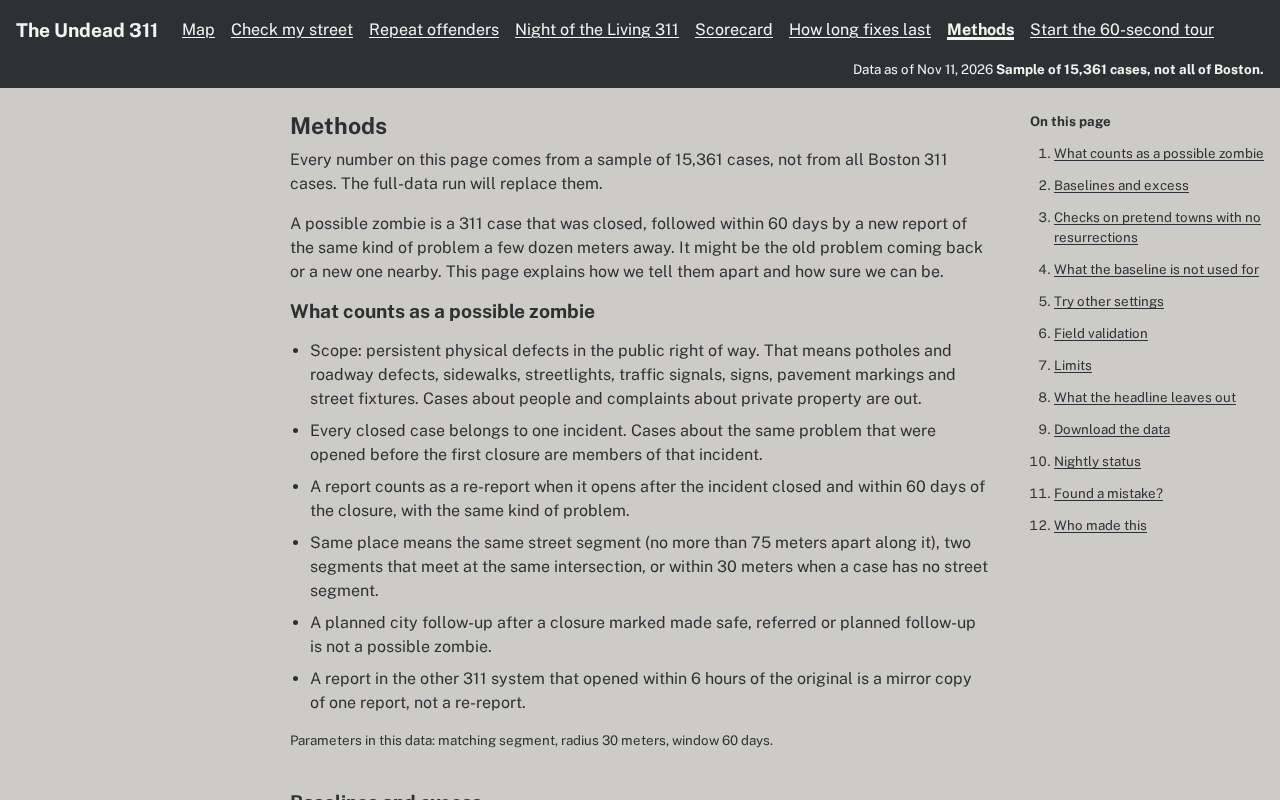
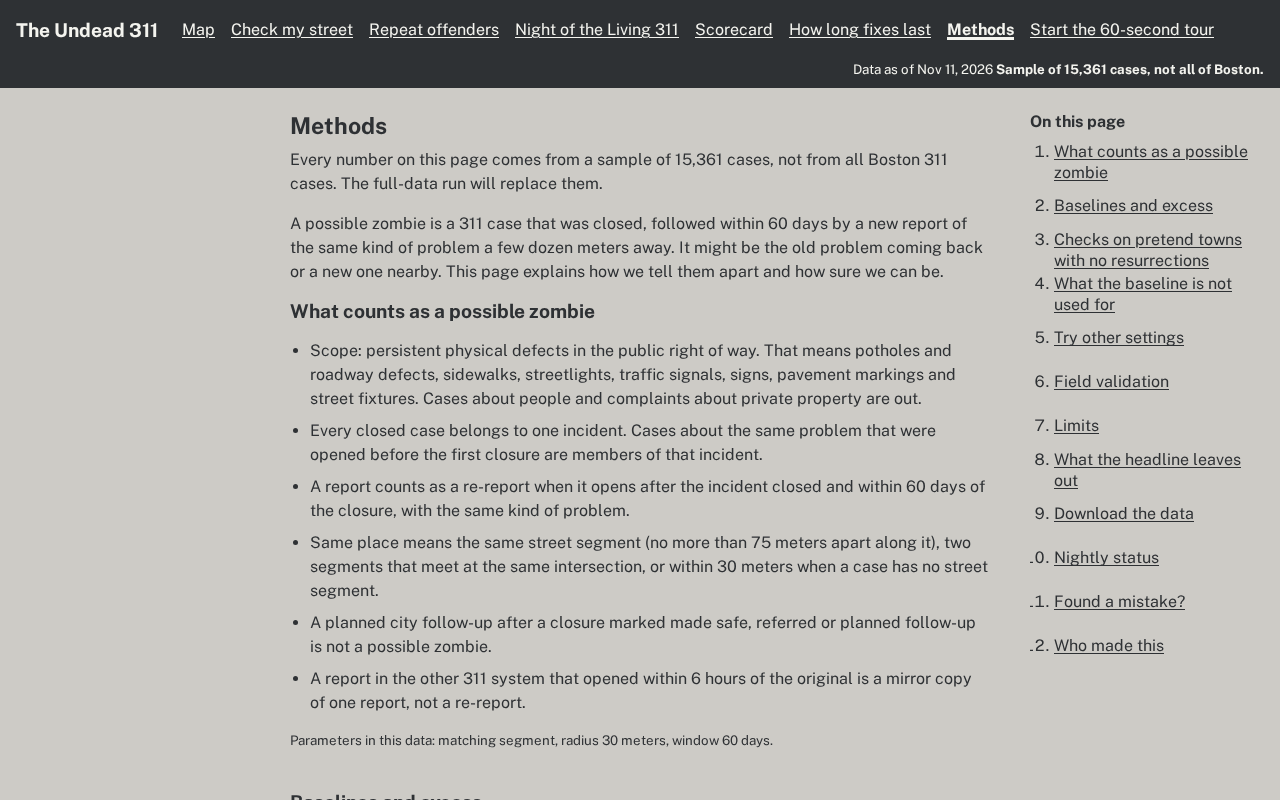
fix(web): address reviewer-ux round 2 on ui/polish
- Clusters whose centres are under 44 px apart merge, so no count badge covers another.
- The open marker key stays above the map credit and left of the zoom buttons.
- The phone filter sheet starts at the bottom of the count strip: no band over the hidden tabs.
- Methods contents links are 44 px tall; time-lapse column centred, help text at body size.
- e2e: key clear of credit and zoom, sheet position, 44 px contents links, no badge overlap.

Kiro-Agent: web
Kiro-Run: manual

Changed region(s): [[0.8125, 0.125, 1.0, 0.7188], [0.8125, 0.75, 0.9375, 0.8125]]

diff --git a/web/src/map/density.ts b/web/src/map/density.ts
@@ -12,6 +12,11 @@ import type { PointRow } from "../lib/points";
 export const DENSITY_ZOOM = 13;
 /** Cluster cell size in screen pixels. A cell holding one possible zombie draws that marker, not a cluster. */
 export const CELL_PX = 40;
+/**
+ * Clusters whose centres end up closer than this on screen are merged, so no count badge covers another (reviewer-ux round 2): a
+ * three-digit badge is about 30 px wide, and the spray behind it about 60 px at most.
+ */
+export const MIN_CLUSTER_GAP_PX = 44;
 
 export interface Cluster {
   /** Stable id: the grid cell, for example "3:5@11". */
@@ -51,6 +56,15 @@ const worldY = (lat: number, z: number) => {
   return ((1 - Math.log(Math.tan(r) + 1 / Math.cos(r)) / Math.PI) / 2) * 512 * 2 ** z;
 };
 
+/** Screen-pixel centre of some rows at zoom z (the mean of their world positions, summed in id order so it is order-free). */
+function centre(rows: readonly PointRow[], z: number): { x: number; y: number } {
+  const sorted = [...rows].sort((a, b) => (a.id < b.id ? -1 : a.id > b.id ? 1 : 0));
+  return {
+    x: sorted.reduce((s, r) => s + worldX(r.lon, z), 0) / sorted.length,
+    y: sorted.reduce((s, r) => s + worldY(r.lat, z), 0) / sorted.length,
+  };
+}
+
 /**
  * Split rows into clusters and single markers for a zoom. At or above DENSITY_ZOOM there are no clusters. A row whose id is in `keep`
  * (the selected marker) is always a single, so an open card never hides inside a cluster.
@@ -67,22 +81,38 @@ export function groupRows(rows: readonly PointRow[], zoom: number, keep: Readonl
     if (cell) cell.push(r);
     else cells.set(key, [r]);
   }
-  const clusters: Cluster[] = [];
-  const single = new Set<string>();
+  // cells in key order; each cell with two or more members starts as a cluster
+  type Draft = { members: PointRow[]; x: number; y: number; key: string };
+  let drafts: Draft[] = [];
   for (const [key, members] of [...cells.entries()].sort((a, b) => (a[0] < b[0] ? -1 : a[0] > b[0] ? 1 : 0))) {
-    if (members.length === 1) {
-      single.add(members[0].id);
-      continue;
+    if (members.length < 2) continue;
+    drafts.push({ members, key, ...centre(members, z) });
+  }
+  // merge clusters whose centres are too close for their badges, closest pair first, until none are; ties by key keep it order-free
+  for (;;) {
+    let best: [number, number, number] | null = null;
+    for (let a = 0; a < drafts.length; a++) {
+      for (let b = a + 1; b < drafts.length; b++) {
+        const d = Math.hypot(drafts[a].x - drafts[b].x, drafts[a].y - drafts[b].y);
+        if (d < MIN_CLUSTER_GAP_PX && (!best || d < best[2])) best = [a, b, d];
+      }
     }
-    const sorted = [...members].sort((a, b) => (a.id < b.id ? -1 : a.id > b.id ? 1 : 0)); // so the centre does not depend on input order
-    clusters.push({
-      key: `${key}@${z}`,
+    if (!best) break;
+    const [a, b] = best;
+    const members = [...drafts[a].members, ...drafts[b].members];
+    const merged: Draft = { members, key: drafts[a].key < drafts[b].key ? drafts[a].key : drafts[b].key, ...centre(members, z) };
+    drafts = [...drafts.filter((_, i) => i !== a && i !== b), merged].sort((p, q) => (p.key < q.key ? -1 : p.key > q.key ? 1 : 0));
+  }
+  const clusters: Cluster[] = drafts.map((d) => {
+    const sorted = [...d.members].sort((a, b) => (a.id < b.id ? -1 : a.id > b.id ? 1 : 0)); // so the centre does not depend on input order
+    return {
+      key: `${d.key}@${z}`,
       lon: sorted.reduce((s, r) => s + r.lon, 0) / sorted.length,
       lat: sorted.reduce((s, r) => s + r.lat, 0) / sorted.length,
       count: sorted.length,
       ids: sorted.map((r) => r.id),
-    });
-  }
+    };
+  });
   const inCluster = new Set(clusters.flatMap((c) => c.ids));
   return { clusters, singles: rows.filter((r) => !inCluster.has(r.id)) };
 }

diff --git a/web/src/styles/app.css b/web/src/styles/app.css
@@ -194,10 +194,16 @@ button:disabled { opacity: 1; border-style: dashed; cursor: not-allowed; }
 .count-note { font-size: var(--step--1); }
 
 /* Marker key over the map's lower left corner (REQ-WEB-MAP.1). Under the card (20) and the phone filter sheet (30). */
-.map-legend { position: absolute; left: var(--space-2); bottom: var(--space-2); z-index: 5; background: var(--crew-white); border: 2px solid var(--asphalt); max-width: calc(100% - 4 * var(--space-2)); }
+/* It sits above the bottom credit line (which must stay visible, tech.md) and left of the zoom buttons, and scrolls inside itself when tall. */
+.map-legend { position: absolute; left: var(--space-2); bottom: 2.25rem; z-index: 5; background: var(--crew-white); border: 2px solid var(--asphalt); max-width: min(24rem, calc(100% - 4.5rem)); }
 .map-legend summary { cursor: pointer; font-weight: 600; min-height: 2.75rem; padding: 0 var(--space-3); display: flex; align-items: center; gap: var(--space-2); }
 .map-legend summary::-webkit-details-marker { display: none; }
 .map-legend ul { list-style: none; margin: 0; padding: 0 var(--space-3) var(--space-2); max-height: min(50dvh, 20rem); overflow-y: auto; }
+/* On a phone the open key is capped below the zoom buttons: the stage less the top 7.5rem (controls) and the bottom 2.25rem (credit). */
+@media (max-width: 640px) {
+  .map-legend ul { max-height: max(4rem, calc(100cqh - 11rem)); }
+  .map-frame { container-type: size; }
+}
 .map-legend li { display: flex; align-items: center; gap: var(--space-2); font-size: var(--step--1); min-height: 1.5rem; }
 .legend-mark { flex: none; display: inline-flex; width: 1.5rem; height: 1.5rem; }
 .legend-mark svg { width: 100%; height: 100%; }
@@ -554,6 +560,8 @@ select {
 .timelapse-bar { display: grid; gap: var(--space-3); margin: var(--space-3) 0; }
 .timelapse-bar .timelapse-controls { margin: 0; }
 .timelapse-bar p { margin: 0; }
+.timelapse-bar #trail-note { font-size: var(--step-0); }
+.timelapse-page { margin-inline: auto; width: min(60rem, 100%); max-width: none; }
 .timelapse-scrub { display: grid; gap: var(--space-1); font-weight: 600; flex: 1 1 16rem; min-width: 0; }
 .timelapse-focus {
   display: grid;
@@ -580,7 +588,8 @@ select {
 .methods-main .plain-list, .methods-main .panel-error, .methods-main .calibration-warning { max-width: none; }
 .methods-main .shift-bar { max-width: 100%; }
 .toc ol { margin: 0; padding-left: var(--space-4); }
-.toc li { margin-bottom: var(--space-1); }
+.toc li { margin-bottom: 0; }
+.toc a { display: flex; align-items: center; min-height: 2.75rem; }
 .toc details { background: var(--crew-white); border: 2px solid var(--asphalt); }
 .toc summary { cursor: pointer; font-weight: 600; min-height: 2.75rem; display: flex; align-items: center; gap: var(--space-2); padding: 0 var(--space-3); }
 .toc summary::-webkit-details-marker { display: none; }
@@ -591,8 +600,8 @@ select {
 @media (min-width: 70rem) {
   .methods-layout { grid-template-columns: minmax(0, 1fr) minmax(0, var(--measure)) minmax(0, 1fr); column-gap: var(--space-5); align-items: start; }
   .methods-main { grid-column: 2; grid-row: 1; }
-  .toc { grid-column: 3; grid-row: 1; position: sticky; top: var(--space-3); max-height: calc(100dvh - 2 * var(--space-3)); overflow-y: auto; max-width: 18rem; font-size: var(--step--1); }
-  .toc a { display: block; padding: var(--space-1) 0; }
+  .toc { grid-column: 3; grid-row: 1; position: sticky; top: var(--space-3); max-height: calc(100dvh - 2 * var(--space-3)); overflow-y: auto; max-width: 18rem; line-height: 1.3; }
+  .toc a { padding: 0; font-size: var(--step-0); }
 }
 
 /* Layout shifts: the header's data line keeps two lines on phones, where the sample note wraps once the data arrives. */

diff --git a/web/src/map/density.test.ts b/web/src/map/density.test.ts
@@ -1,7 +1,7 @@
 import fc from "fast-check";
 import { describe, expect, it } from "vitest";
 import type { PointRow } from "../lib/points";
-import { CELL_PX, clusterLabel, clusterSize, DENSITY_ZOOM, groupRows, markerScale } from "./density";
+import { CELL_PX, clusterLabel, MIN_CLUSTER_GAP_PX, clusterSize, DENSITY_ZOOM, groupRows, markerScale } from "./density";
 
 const row = (id: string, lon: number, lat: number): PointRow => ({ id, lon, lat, tier: "headline", family: "sign", department: null, neighborhood: null, year: 2020 });
 const pt = fc.record({ id: fc.string({ minLength: 1, maxLength: 6 }), lon: fc.double({ min: -71.2, max: -70.95, noNaN: true }), lat: fc.double({ min: 42.2, max: 42.45, noNaN: true }) });
@@ -71,16 +71,41 @@ describe("density view: clusters below the zoom threshold (REQ-WEB-MAP.1)", () =
       expect(items(groupRows(rows, z - 1))).toBeLessThanOrEqual(items(groupRows(rows, z)));
     }));
   });
-  it("property: points inside a cluster are within a cell of each other on screen, so a cluster is a local group", () => {
-    fc.assert(fc.property(fc.array(pt, { maxLength: 60 }), (xs) => {
+  it("property: no two cluster badges are closer on screen than the minimum gap, so no count covers another", () => {
+    fc.assert(fc.property(fc.array(pt, { maxLength: 80 }), fc.double({ min: 9, max: 12.9, noNaN: true }), (xs, z) => {
+      const g = groupRows(rowsOf(xs), z);
+      const zz = Math.floor(z * 2) / 2;
+      const px = (c: { lon: number; lat: number }) => {
+        const r = (c.lat * Math.PI) / 180;
+        return [((c.lon + 180) / 360) * 512 * 2 ** zz, ((1 - Math.log(Math.tan(r) + 1 / Math.cos(r)) / Math.PI) / 2) * 512 * 2 ** zz];
+      };
+      for (let a = 0; a < g.clusters.length; a++) for (let b = a + 1; b < g.clusters.length; b++) {
+        const [ax, ay] = px(g.clusters[a]);
+        const [bx, by] = px(g.clusters[b]);
+        expect(Math.hypot(ax - bx, ay - by)).toBeGreaterThanOrEqual(MIN_CLUSTER_GAP_PX - 1e-6);
+      }
+    }));
+  });
+  it("property: a cluster is still a local group: its points lie within a few cells of each other on a sparse map", () => {
+    fc.assert(fc.property(fc.array(pt, { maxLength: 12 }), (xs) => {
       const rows = rowsOf(xs);
       const g = groupRows(rows, 11);
       const by = new Map(rows.map((r) => [r.id, r]));
       const px = (lon: number) => ((lon + 180) / 360) * 512 * 2 ** 11;
       for (const c of g.clusters) {
         const lons = c.ids.map((id) => px(by.get(id)!.lon));
-        expect(Math.max(...lons) - Math.min(...lons)).toBeLessThan(CELL_PX);
+        expect(Math.max(...lons) - Math.min(...lons)).toBeLessThan(CELL_PX * 12);
       }
     }));
+  });
+  it("merges two clusters that sit across a cell border, so their badges never overlap", () => {
+    // two pairs about 20 px apart at zoom 11, on either side of a cell line
+    const z = 11;
+    const lonAt = (x: number) => (x / (512 * 2 ** z)) * 360 - 180;
+    const x0 = Math.ceil((((-71.06 + 180) / 360) * 512 * 2 ** z) / CELL_PX) * CELL_PX; // a cell border
+    const rows = [row("a", lonAt(x0 - 12), 42.35), row("b", lonAt(x0 - 9), 42.35), row("c", lonAt(x0 + 9), 42.35), row("d", lonAt(x0 + 12), 42.35)];
+    const g = groupRows(rows, z);
+    expect(g.clusters).toHaveLength(1);
+    expect(g.clusters[0].ids).toEqual(["a", "b", "c", "d"]);
   });
 });

diff --git a/web/e2e/ui-polish.spec.ts b/web/e2e/ui-polish.spec.ts
@@ -287,3 +287,47 @@ test("every header and footer link is at least 44 px tall", async ({ page }, inf
   expect(await links.count()).toBeGreaterThan(5);
   for (const box of await links.evaluateAll((els) => els.map((e) => e.getBoundingClientRect().height))) expect(box).toBeGreaterThanOrEqual(44);
 });
+
+test("the open marker key leaves the map credit and the zoom buttons uncovered", async ({ page }) => {
+  await page.goto("/");
+  await expect(page.getByTestId("map")).toHaveAttribute("data-ready", "true");
+  await page.getByText("Marker key").click();
+  const box = async (sel: string) => (await page.locator(sel).first().boundingBox())!;
+  const key = await box(".map-legend");
+  const overlaps = (a: { x: number; y: number; width: number; height: number }, b: typeof a) =>
+    a.x < b.x + b.width && b.x < a.x + a.width && a.y < b.y + b.height && b.y < a.y + a.height;
+  expect(overlaps(key, await box(".maplibregl-ctrl-attrib"))).toBe(false);
+  expect(overlaps(key, await box(".maplibregl-ctrl-group"))).toBe(false);
+  await expect(page.locator(".maplibregl-ctrl-attrib")).toContainText("OpenStreetMap");
+});
+
+test("the phone filter sheet starts right under the count strip, with no band between", async ({ page }, info) => {
+  test.skip(info.project.name !== "phone", "the sheet exists under 640 px only");
+  await page.goto("/");
+  await openFilters(page);
+  const strip = (await page.locator(".filters-panel").boundingBox())!;
+  const sheet = (await page.locator(".filters-body").boundingBox())!;
+  expect(Math.abs(sheet.y - (strip.y + strip.height))).toBeLessThanOrEqual(1);
+});
+
+test("methods contents links are 44 px tall", async ({ page }, info) => {
+  await page.goto("/methods");
+  await expect(page.getByTestId("methods-intro")).toBeVisible();
+  const toc = page.getByRole("navigation", { name: "On this page" });
+  if (info.project.name === "phone") await toc.locator("summary").click();
+  const heights = await toc.locator("a").evaluateAll((els) => els.map((e) => e.getBoundingClientRect().height));
+  expect(heights.length).toBeGreaterThan(5);
+  for (const h of heights) expect(h).toBeGreaterThanOrEqual(44);
+});
+
+test("at city zoom no two cluster counts overlap", async ({ page }) => {
+  await page.goto("/");
+  const map = page.getByTestId("map");
+  await expect(map).toHaveAttribute("data-ready", "true");
+  await page.waitForTimeout(500);
+  const pts = await map.evaluate((el) => (el as unknown as { __clusterPixels: () => { x: number; y: number }[] }).__clusterPixels());
+  expect(pts.length).toBeGreaterThan(10);
+  for (let a = 0; a < pts.length; a++) for (let b = a + 1; b < pts.length; b++) {
+    expect(Math.hypot(pts[a].x - pts[b].x, pts[a].y - pts[b].y)).toBeGreaterThanOrEqual(43);
+  }
+});

diff --git a/web/src/pages/HomePage.tsx b/web/src/pages/HomePage.tsx
@@ -43,6 +43,23 @@ export default function HomePage() {
   const filtersId = useId();
   const toggleRef = useRef<HTMLButtonElement>(null);
   const narrow = useNarrow();
+  const panelRef = useRef<HTMLElement>(null);
+  // On a phone the sheet starts right under the count strip, so it covers the Map and Table buttons with no band between (reviewer-ux r2).
+  const [sheetTop, setSheetTop] = useState<number | null>(null);
+  useEffect(() => {
+    if (!filtersOpen || !narrow) return;
+    const el = panelRef.current;
+    if (!el) return;
+    const measure = () => setSheetTop(Math.round(el.getBoundingClientRect().bottom));
+    measure();
+    const ro = typeof ResizeObserver === "function" ? new ResizeObserver(measure) : null;
+    ro?.observe(el);
+    window.addEventListener("resize", measure);
+    return () => {
+      ro?.disconnect();
+      window.removeEventListener("resize", measure);
+    };
+  }, [filtersOpen, narrow]);
   // On a phone the filters are a sheet over the map; Escape shuts it and puts focus back on the button that opened it (UX-48).
   useEffect(() => {
     if (!filtersOpen || !narrow) return;
@@ -61,7 +78,7 @@ export default function HomePage() {
 
   return (
     <div className="home">
-      <aside className="filters-panel">
+      <aside className="filters-panel" ref={panelRef}>
         <h1>{t("app.title")}</h1>
         {points.status === "error" && <PanelError file={points.file} error={points.error} />}
         {pointsState.extraError && <PanelError file={pointsState.extraError.file} error={pointsState.extraError.error} />}
@@ -76,7 +93,7 @@ export default function HomePage() {
           </>
         )}
         {/* On wide screens this is part of the sidebar; under 640 px it is a sheet over the map, so opening it never resizes the map. */}
-        <div id={filtersId} className={filtersOpen ? "filters-body filters-open" : "filters-body"}>
+        <div id={filtersId} className={filtersOpen ? "filters-body filters-open" : "filters-body"} style={filtersOpen && narrow && sheetTop !== null ? { top: sheetTop, maxHeight: "none" } : undefined}>
           <div className="hero-text">
             <p className="tagline">{t("app.hero_line")}</p>
             <p className="tagline">{t("app.hero_subtitle")}</p>

diff --git a/docs/KIRO_LOG.md b/docs/KIRO_LOG.md
@@ -90,3 +90,4 @@ Format: `YYYY-MM-DD | surface | feature | what was built/fixed | issue + fix`
 2026-11-18 | Web | unit + e2e tests (axe), branch ui/polish, no workflow | Drew the zombie markers in code (uneven spray ring, 4 variants, stencil letter per type family, legend); home page fills the screen with filters as a fixed-height panel or phone sheet; time-lapse focus, trail and speed controls; methods page 70-character column with sticky contents list; invisible hit circles so a marker's center and a 44 px phone target pick it | Kiro first wrote the center-click e2e on a family whose stencil letter covers the center, so it passed against the old sprite-only picking; it now uses streetlights (the L leaves the middle empty) and was checked to fail without the fix. The e2e shot() helper overwrote 31 committed screenshots in docs/screenshots; restored them with git checkout.
 2026-11-18 | Web | reviewer-ux agent review of ui/polish, no workflow | Fixed its blocking finding (methods page scrolled sideways at 360 and 320 px: the slider result list had a max-content column), the phone sheet cutting through the Map and Table buttons, 32 px filter rows, the short time-lapse slider and the marker key covering the desktop map; added an overflow test for seven pages at three widths | reviewer-ux said the committed after-layout.json showed the old failures; the committed file was already correct (800 of 800), so no change was made there. Marker density at default zoom, load-time layout shift on scorecard and methods, and header and footer link heights are not fixed in this PR.
 2026-11-18 | Web | PBT (fast-check) + e2e, ui/polish round 2, no workflow | Density view below zoom 13 (spray-dot clusters with counts on a fixed nested grid, click to zoom in), markers scale with zoom, a page-high placeholder until each data page's files are in plus a data cache that hands later readers their data on the first render (CLS 0 on scorecard, methods, durability and time-lapse, was up to 1.36), 44 px header and footer links | The first placeholder attempt reserved measured section heights per width, which still shifted (the sections' heights depend on the data); gating the page on its files replaced it. Clearing the data cache while a load was in flight left a stale result; it now only records a result whose promise is still cached.
+2026-11-18 | Web | reviewer-ux agent (round 2: approve) + PBT, ui/polish | Fixed its should-fix and nit items: clusters closer than 44 px are merged so no count covers another (property test), the open marker key stays clear of the OSM credit and zoom buttons, the phone filter sheet starts at the count strip, 44 px methods contents links, a centred time-lapse column with body-size help text | Centring the time-lapse column with auto margins brought back a 0.09 layout shift on desktop (the e2e CLS check caught it); a fixed width fixed it.
